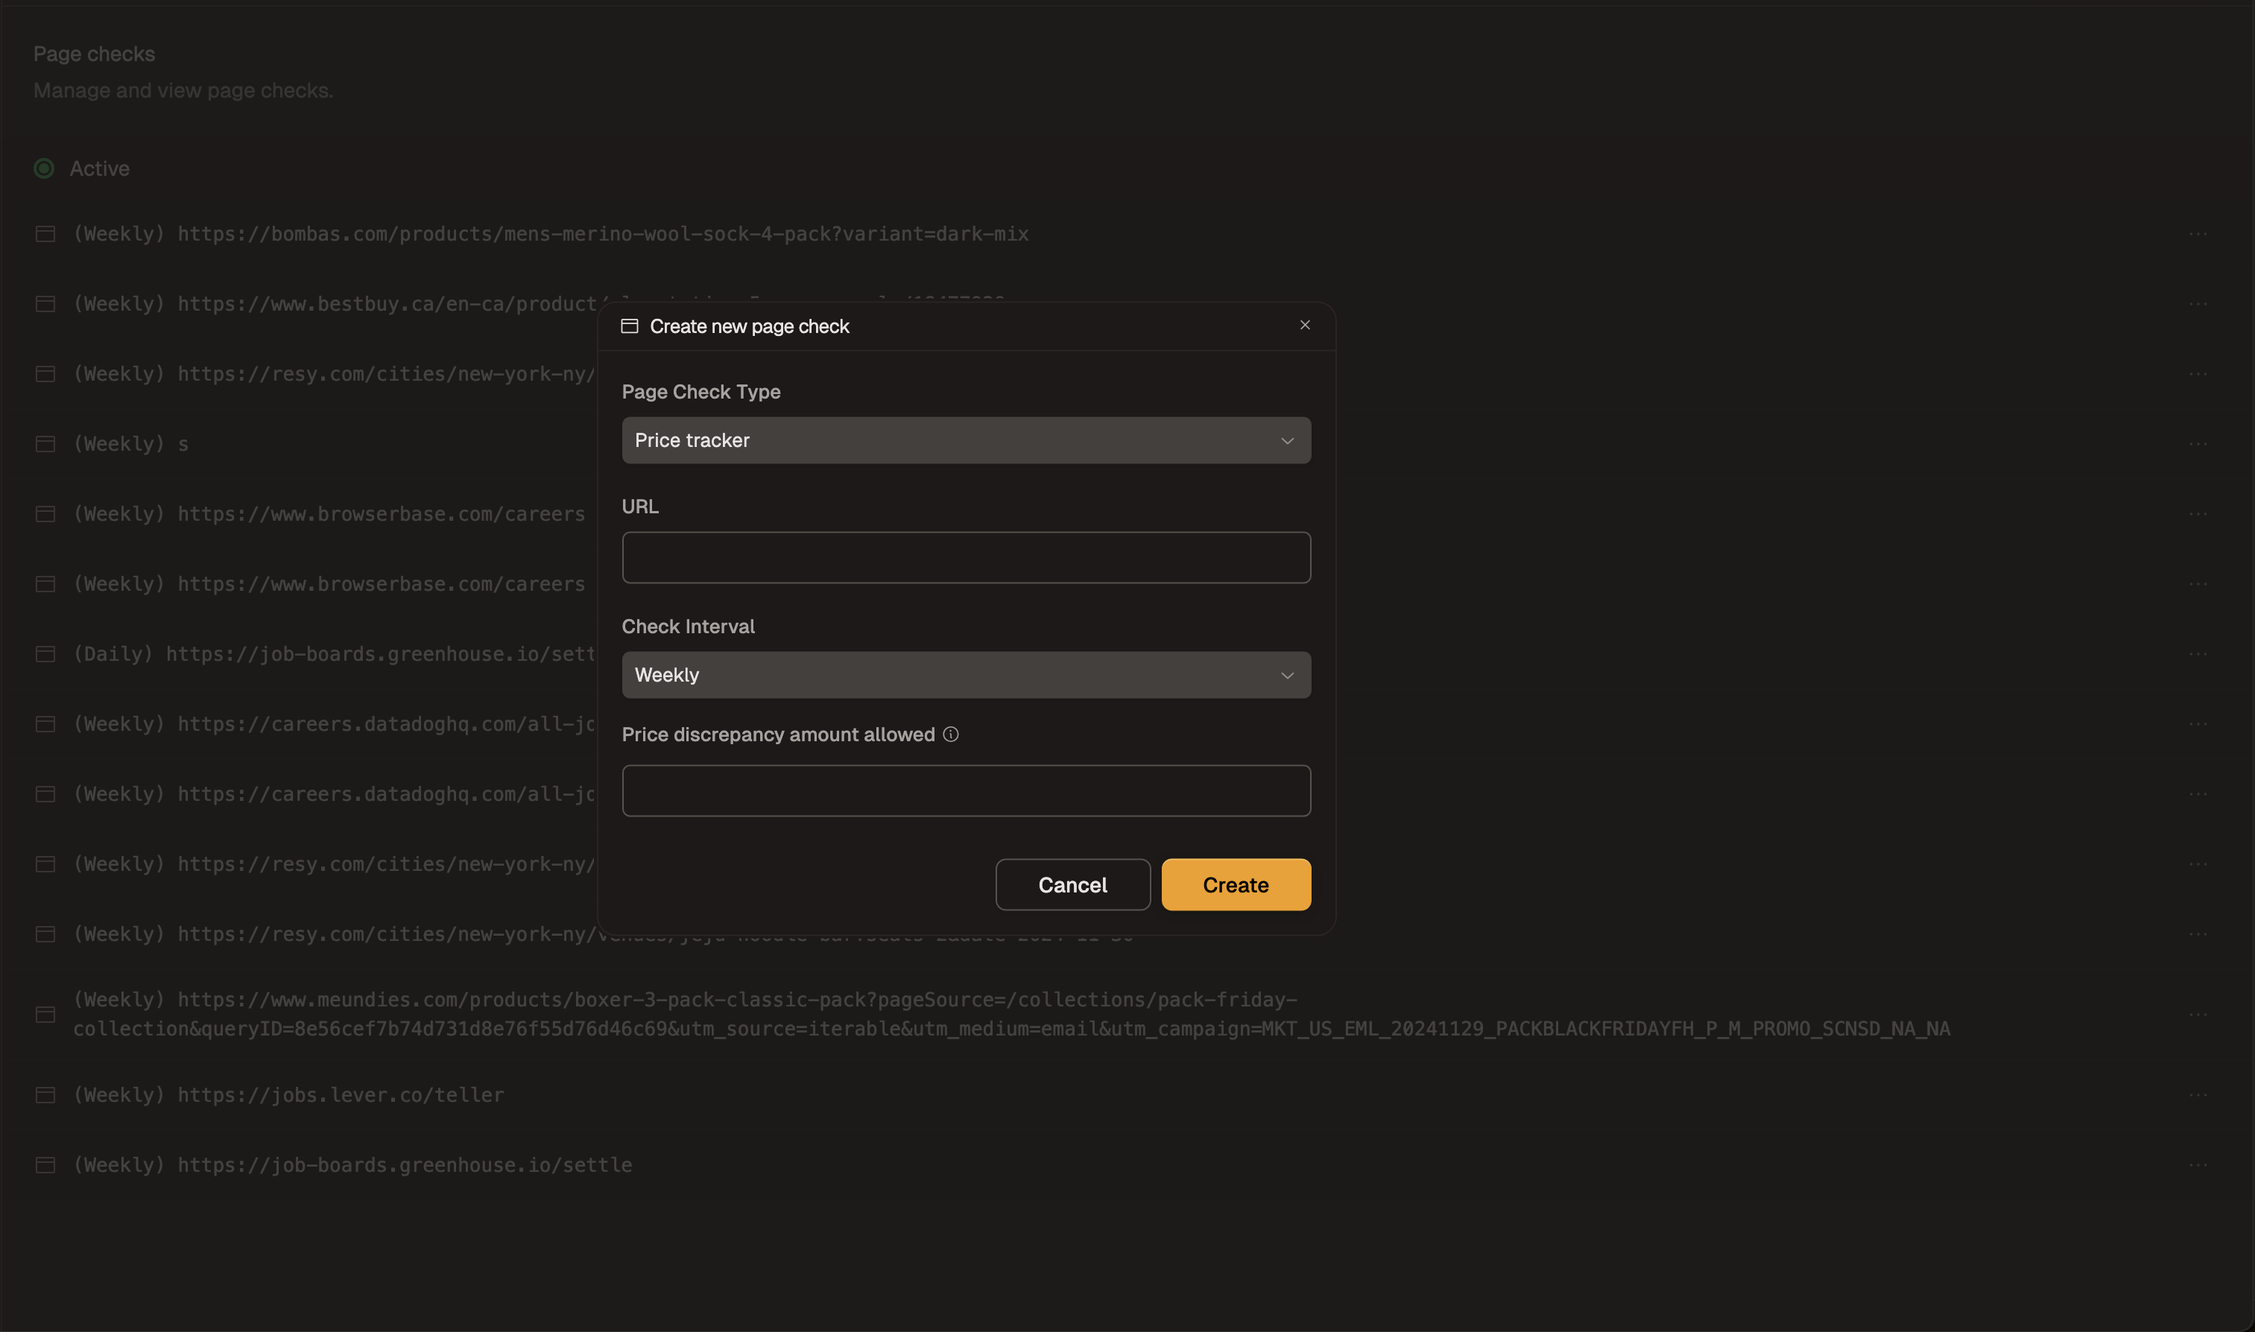
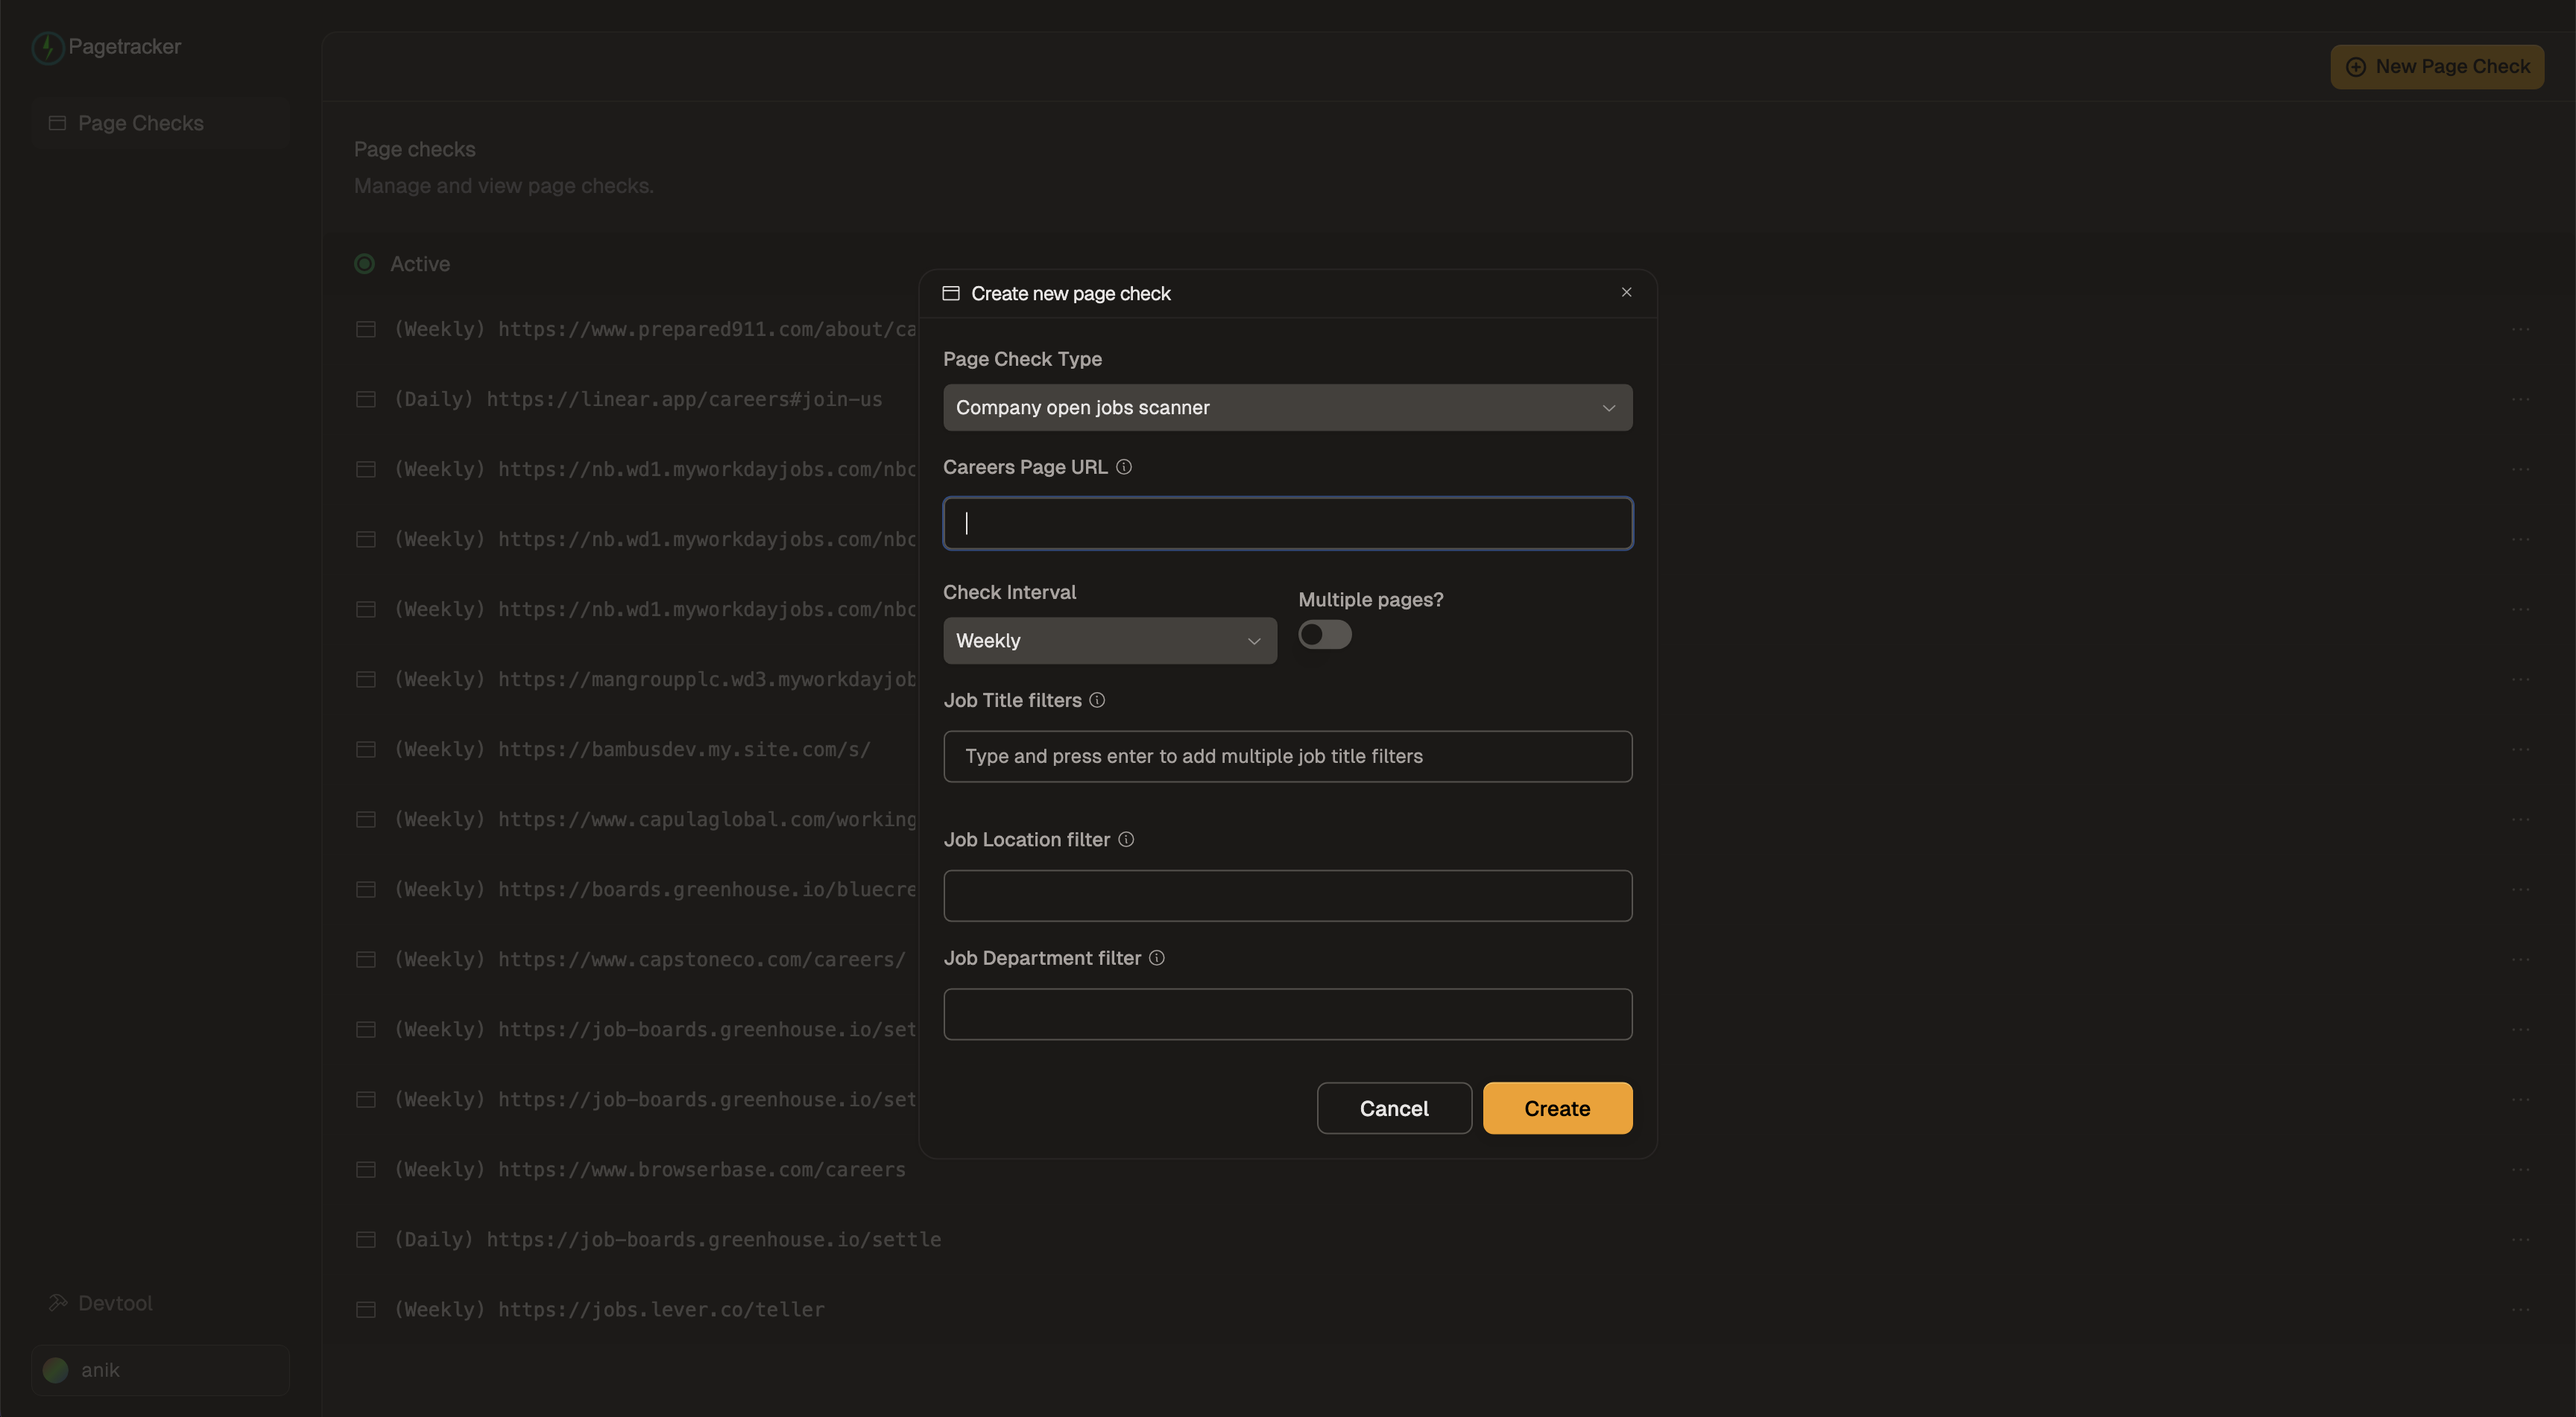
Change copy + image on home page

diff --git a/apps/main-app/src/components/dialogs/NewPageCheckDialog.tsx b/apps/main-app/src/components/dialogs/NewPageCheckDialog.tsx
@@ -136,29 +136,56 @@ export const NewPageCheckDialog = ({ open, setOpen }: INewInterviewDialogProps) 
                   </FormItem>
                 )}
               />
-              <FormField
-                control={form.control}
-                name="url"
-                render={({ field }) => (
-                  <FormItem className="w-full">
-                    <FormLabel className="mb-4 flex flex-row items-center gap-1">
-                      URL
-                      <Tooltip>
-                        <TooltipTrigger asChild>
-                          <Info className="text-md" />
-                        </TooltipTrigger>
-                        <TooltipContent>
-                          <p>Make sure your URL begins with "https://"</p>
-                        </TooltipContent>
-                      </Tooltip>
-                    </FormLabel>
-                    <FormControl>
-                      <Input {...field} />
-                    </FormControl>
-                    <FormMessage />
-                  </FormItem>
-                )}
-              />
+              {pageCheckType == PageCheckTypeEnum.JobTitles && (
+                <FormField
+                  control={form.control}
+                  name="url"
+                  render={({ field }) => (
+                    <FormItem className="w-full">
+                      <FormLabel className="mb-4 flex flex-row items-center gap-1">
+                        Careers Page URL
+                        <Tooltip>
+                          <TooltipTrigger asChild>
+                            <Info className="text-md" />
+                          </TooltipTrigger>
+                          <TooltipContent>
+                            <p>Make sure your URL begins with "https://"</p>
+                          </TooltipContent>
+                        </Tooltip>
+                      </FormLabel>
+                      <FormControl>
+                        <Input {...field} />
+                      </FormControl>
+                      <FormMessage />
+                    </FormItem>
+                  )}
+                />
+              )}
+              {pageCheckType != PageCheckTypeEnum.JobTitles && (
+                <FormField
+                  control={form.control}
+                  name="url"
+                  render={({ field }) => (
+                    <FormItem className="w-full">
+                      <FormLabel className="mb-4 flex flex-row items-center gap-1">
+                        URL
+                        <Tooltip>
+                          <TooltipTrigger asChild>
+                            <Info className="text-md" />
+                          </TooltipTrigger>
+                          <TooltipContent>
+                            <p>Make sure your URL begins with "https://"</p>
+                          </TooltipContent>
+                        </Tooltip>
+                      </FormLabel>
+                      <FormControl>
+                        <Input {...field} />
+                      </FormControl>
+                      <FormMessage />
+                    </FormItem>
+                  )}
+                />
+              )}
               <div className="flex w-full flex-row items-center justify-between gap-4">
                 <FormField
                   control={form.control}
